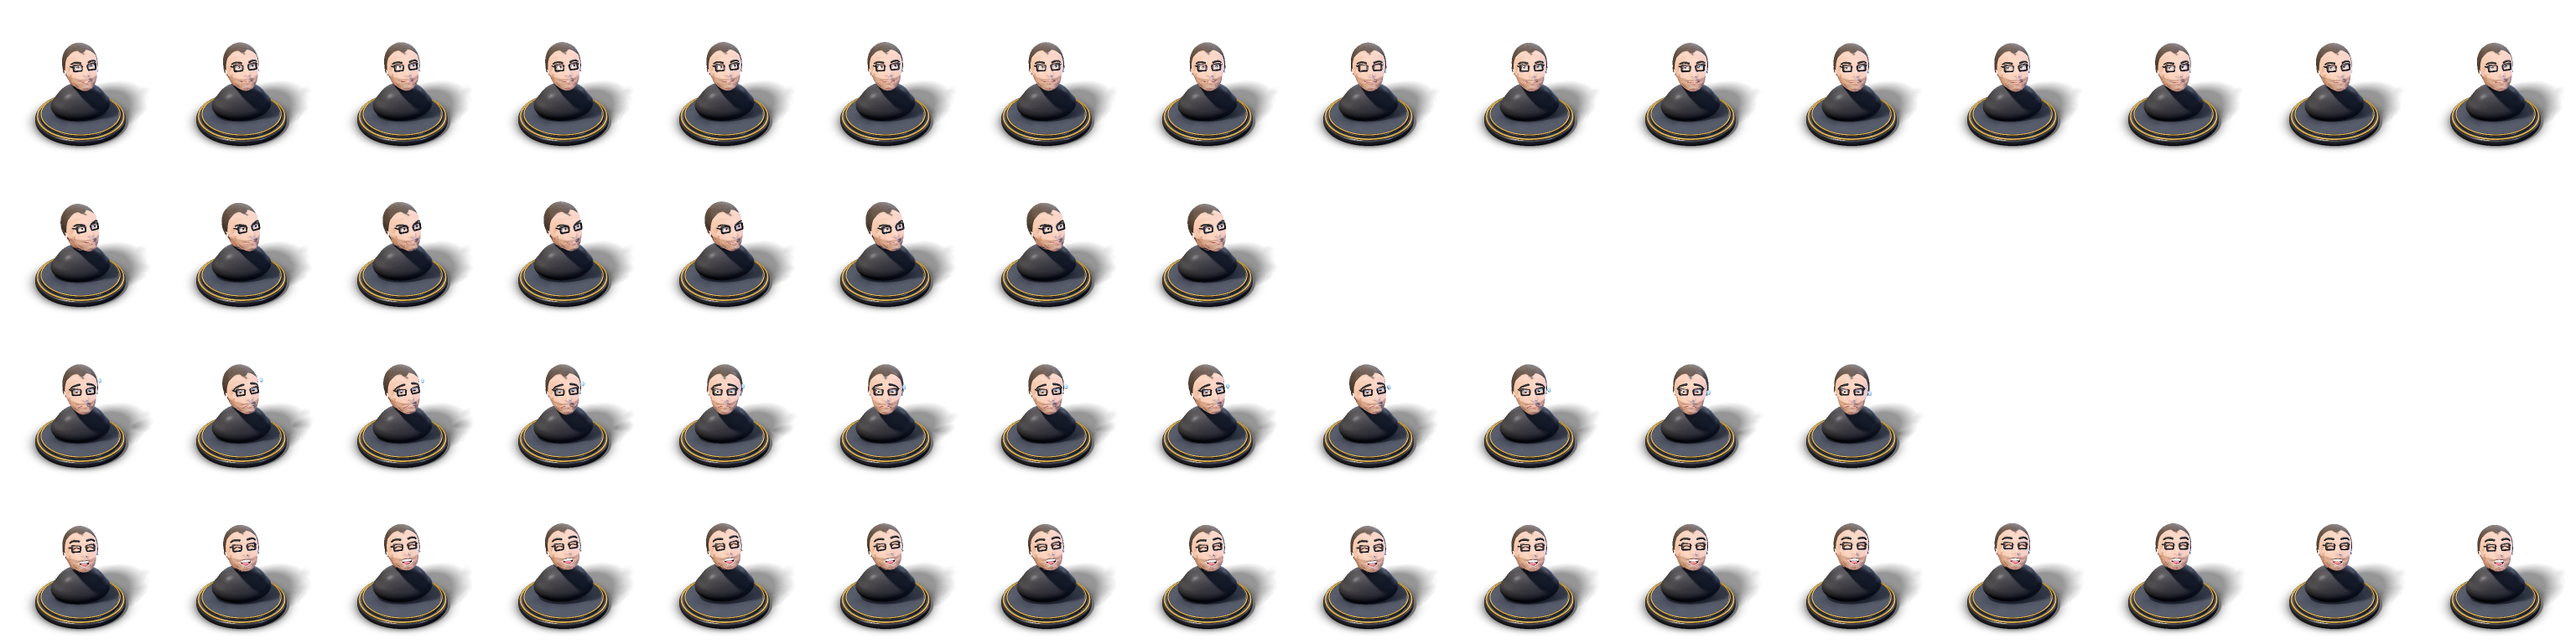
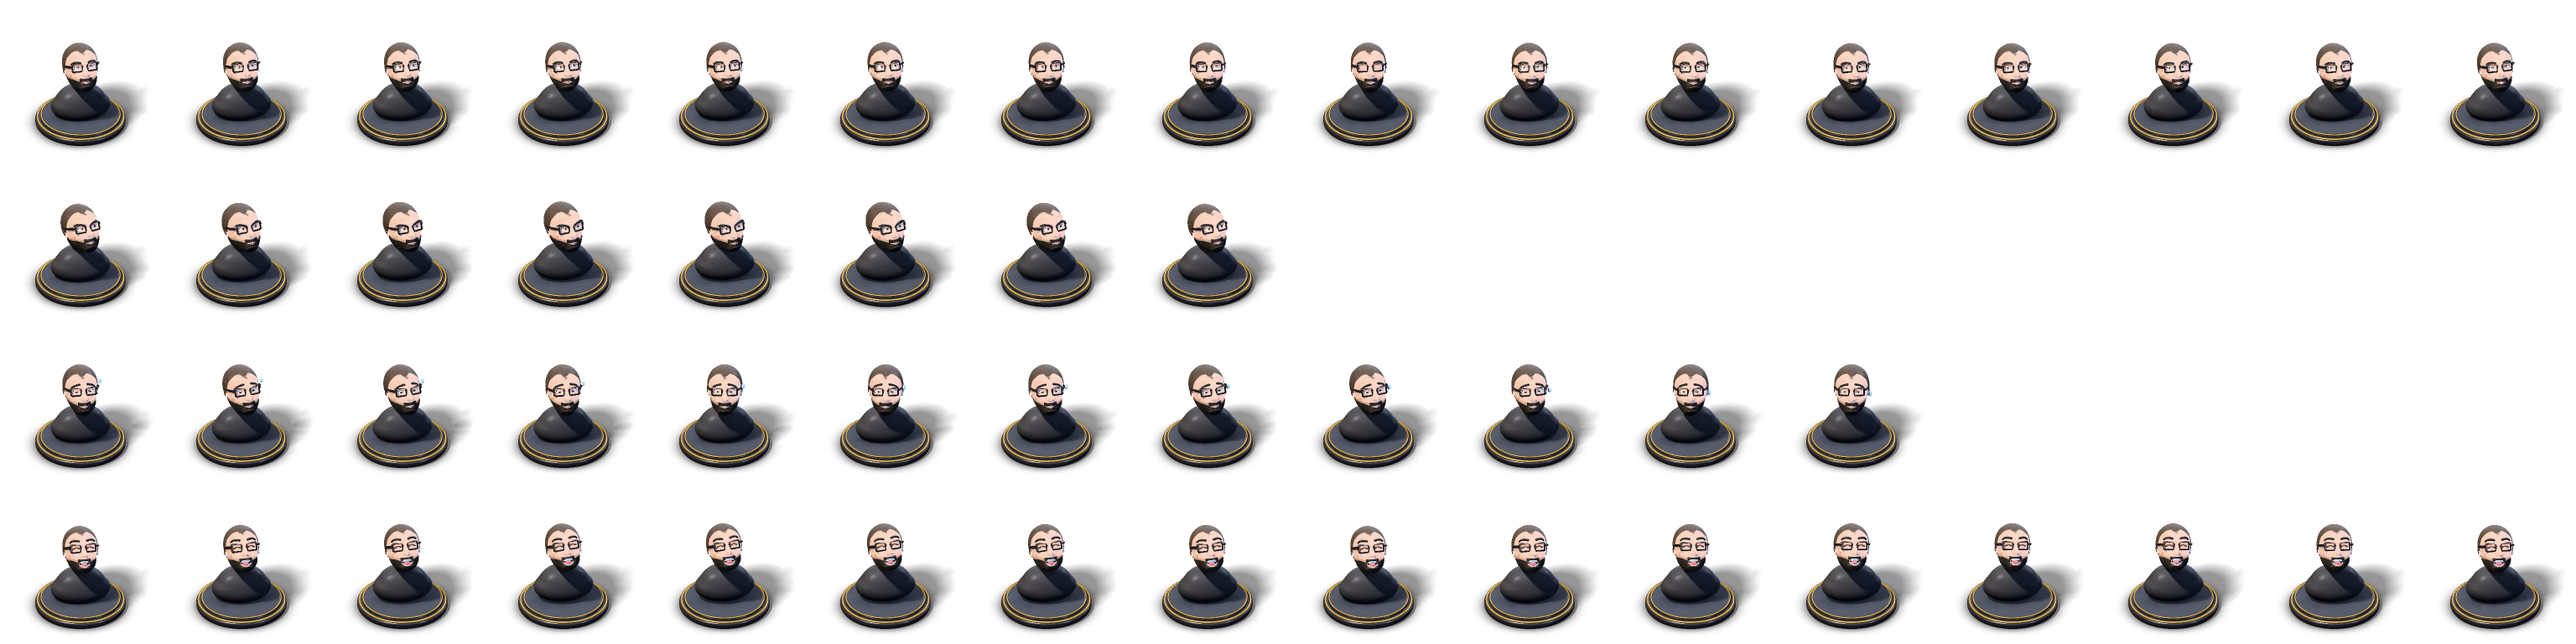
app: the human figurine with larger glasses (the eyes seen well through them) and their arms along the head to the ears, and a real beard and moustache in relief over the face (fuller on the chin, the lips bare; black for Black, salt and pepper strand by strand for White)

diff --git a/doc/yolah_app.html b/doc/yolah_app.html
@@ -2334,7 +2334,7 @@ cmake<span class="w"> </span>-S<span class="w"> </span>app<span class="w"> </spa
 <div class="tablewrap"><table>
 <tr><th>File</th><th>Role</th></tr>
 <tr><td><code>render.py</code></td><td>a small renderer: shapes as signed distance functions (spheres, rounded boxes, capsules, tori...), each with a transform and a material; sphere tracing from an orthographic camera looking down at 32°; a warm key light with soft shadows, a cool fill, a rim light, ambient occlusion, GGX highlights, a studio environment for the metals, glass, emissive parts with bloom, a ground plane that keeps only the contact shadow; rendered twice larger and averaged down</td></tr>
-<tr><td><code>models.py</code></td><td>the characters: <code>model(anim, t, side)</code> builds the scene of one frame (the human, the author's figurine: the face of their photos (<code>portrait.py</code>), animated eyes, lids, brows and mouth, hair nearly shaved and a three-day beard, black for Black and salt and pepper for White, glasses with a thick black frame, AirPods, a plain top, black or white by side; one robot per AI, from a wind-up tin toy to an energy core)</td></tr>
+<tr><td><code>models.py</code></td><td>the characters: <code>model(anim, t, side)</code> builds the scene of one frame (the human, the author's figurine: the face of their photos (<code>portrait.py</code>), animated eyes, lids, brows and mouth, hair nearly shaved, a full beard and moustache, black for Black and salt and pepper for White, large glasses with a thick black frame and their arms, AirPods, a plain top, black or white by side; one robot per AI, from a wind-up tin toy to an energy core)</td></tr>
 <tr><td><code>portrait.py</code></td><td>the human's face from the author's webcam photos: a 3D morphable model fitted by 3DDFA_V2 (front and three-quarter, identity only), baked into <code>ref/human_face3d.npz</code>: the depth of the face over the head's grid, its outline, the 68 keypoints, and the albedo with the photo's lighting removed (a spherical-harmonics light fitted on the face's normals) and its colour casts taken out; <code>models.py</code> makes the face a solid behind that depth, inside the outline, with the cranium and the jaw behind it</td></tr>
 <tr><td><code>build.py</code></td><td>renders idle (16 frames), move (8), blocked (12) and win (16) for both sides into <code>assets/art/fig_&lt;name&gt;[_blanc]</code></td></tr>
 <tr><td><code>space.py</code></td><td>the space theme: background, planet, squares, vortex hole, frame</td></tr>

diff --git a/doc/src/yolah_app/05_app_looks.html b/doc/src/yolah_app/05_app_looks.html
@@ -191,7 +191,7 @@ int px = int(std::floor((a.in.mouse.x - canvas.x) / cell)), py = int(std::floor(
 <div class="tablewrap"><table>
 <tr><th>File</th><th>Role</th></tr>
 <tr><td><code>render.py</code></td><td>a small renderer: shapes as signed distance functions (spheres, rounded boxes, capsules, tori...), each with a transform and a material; sphere tracing from an orthographic camera looking down at 32°; a warm key light with soft shadows, a cool fill, a rim light, ambient occlusion, GGX highlights, a studio environment for the metals, glass, emissive parts with bloom, a ground plane that keeps only the contact shadow; rendered twice larger and averaged down</td></tr>
-<tr><td><code>models.py</code></td><td>the characters: <code>model(anim, t, side)</code> builds the scene of one frame (the human, the author's figurine: the face of their photos (<code>portrait.py</code>), animated eyes, lids, brows and mouth, hair nearly shaved and a three-day beard, black for Black and salt and pepper for White, glasses with a thick black frame, AirPods, a plain top, black or white by side; one robot per AI, from a wind-up tin toy to an energy core)</td></tr>
+<tr><td><code>models.py</code></td><td>the characters: <code>model(anim, t, side)</code> builds the scene of one frame (the human, the author's figurine: the face of their photos (<code>portrait.py</code>), animated eyes, lids, brows and mouth, hair nearly shaved, a full beard and moustache, black for Black and salt and pepper for White, large glasses with a thick black frame and their arms, AirPods, a plain top, black or white by side; one robot per AI, from a wind-up tin toy to an energy core)</td></tr>
 <tr><td><code>portrait.py</code></td><td>the human's face from the author's webcam photos: a 3D morphable model fitted by 3DDFA_V2 (front and three-quarter, identity only), baked into <code>ref/human_face3d.npz</code>: the depth of the face over the head's grid, its outline, the 68 keypoints, and the albedo with the photo's lighting removed (a spherical-harmonics light fitted on the face's normals) and its colour casts taken out; <code>models.py</code> makes the face a solid behind that depth, inside the outline, with the cranium and the jaw behind it</td></tr>
 <tr><td><code>build.py</code></td><td>renders idle (16 frames), move (8), blocked (12) and win (16) for both sides into <code>assets/art/fig_&lt;name&gt;[_blanc]</code></td></tr>
 <tr><td><code>space.py</code></td><td>the space theme: background, planet, squares, vortex hole, frame</td></tr>

diff --git a/app/tools/sprites/models.py b/app/tools/sprites/models.py
@@ -572,15 +572,42 @@ def human(anim, t, side, outfit="plain", shades=True):       # shades: glasses w
     if shades:   # glasses with a thick black frame (squarish, rounded corners); the lenses, clear, are not drawn
         frame = Mat("#0b0b0d", rough=0.25, clearcoat=1.0)
         for sgn in (-1, 1):
-            c = head * T(0.088 * sgn, 0.03, 0.262) * RY(0.16 * sgn) * RX(-0.05)
+            c = head * T(0.094 * sgn, 0.03, 0.264) * RY(0.16 * sgn) * RX(-0.05)
 
             def rim(q):
-                outer = sd_box(0.064, 0.05, 0.008, 0.02)(q)
-                inner = sd_box(0.047, 0.034, 0.02, 0.013)(q)
+                outer = sd_box(0.074, 0.058, 0.009, 0.022)(q)
+                inner = sd_box(0.058, 0.043, 0.02, 0.015)(q)
                 return torch.maximum(outer, -inner)
             sc.add(rim, frame, c)
-            sc.add(sd_capsule((0.148 * sgn, 0.045, 0.232), (0.188 * sgn, 0.04, 0.0), 0.007), frame, head)   # the arms
-        sc.add(sd_capsule((-0.032, 0.045, 0.264), (0.032, 0.045, 0.264), 0.007), frame, head)               # the bridge
+            # the arms: from the frame's outer corner along the side of the head to the ear
+            sc.add(sd_capsule((0.166 * sgn, 0.05, 0.245), (0.212 * sgn, 0.045, 0.1), 0.009, 0.008), frame, head)
+            sc.add(sd_capsule((0.212 * sgn, 0.045, 0.1), (0.212 * sgn, 0.03, -0.02), 0.008, 0.007), frame, head)
+        sc.add(sd_capsule((-0.034, 0.045, 0.268), (0.034, 0.045, 0.268), 0.008), frame, head)               # the bridge
+    # a real beard and moustache: a layer over the face's surface, the lips left bare
+    beard_dark = srgb("#141210") if side == 0 else srgb("#2a2622")
+    beard_light = srgb("#2c2824") if side == 0 else srgb("#dcd8d2")
+
+    def beard_pat(pl, pw, n):
+        q = head.to_local(pw)
+        strands = fbm(torch.stack([q[:, 0] * 260, q[:, 1] * 40, q[:, 2] * 260], 1), 3)
+        hair_mix = fbm(torch.stack([q[:, 0] * 420, q[:, 1] * 90, q[:, 2] * 420], 1) + 9, 2)       # strand by strand
+        mix = smoothstep(0.38, 0.62, hair_mix)[:, None] * (0.25 if side == 0 else 0.8)
+        a = beard_dark * (1 - mix) + beard_light * mix
+        a = a * (0.7 + 0.5 * strands)[:, None]
+        return {"albedo": a, "rough": torch.full_like(q[:, 0], 0.85)}
+
+    def beard(q):
+        x, y, z = q[:, 0], q[:, 1], q[:, 2]
+        ax = x.abs()
+        thick = 0.011 + 0.01 * smoothstep(-0.16, -0.27, y)                 # fuller on the chin
+        surf = sd_face(q) - thick * 0.35 - 0.004
+        bline = -0.115 - 0.45 * (0.15 - ax).clamp_min(0)                  # the beard's upper edge, low on the cheeks
+        region = y - bline
+        stache = torch.maximum(torch.maximum((y + 0.122).abs() - 0.013 - 0.006 * smoothstep(0.03, 0.07, ax), ax - 0.075), -z + 0.2)
+        region = torch.minimum(region, stache)
+        lips = (torch.sqrt((x / 0.07) ** 2 + ((y + 0.153) / 0.019) ** 2) - 1) * 0.02
+        return torch.maximum(torch.maximum(surf, region), torch.maximum(-lips, -(y + 0.36)))
+    sc.add(beard, Mat("#141210", rough=0.85, pattern=beard_pat), head)
     # AirPods: a glossy white bud in each ear, its stem down along the cheek
     pod = Mat("#f6f6f4", rough=0.12, clearcoat=1.2)
     for sgn in (-1, 1):
